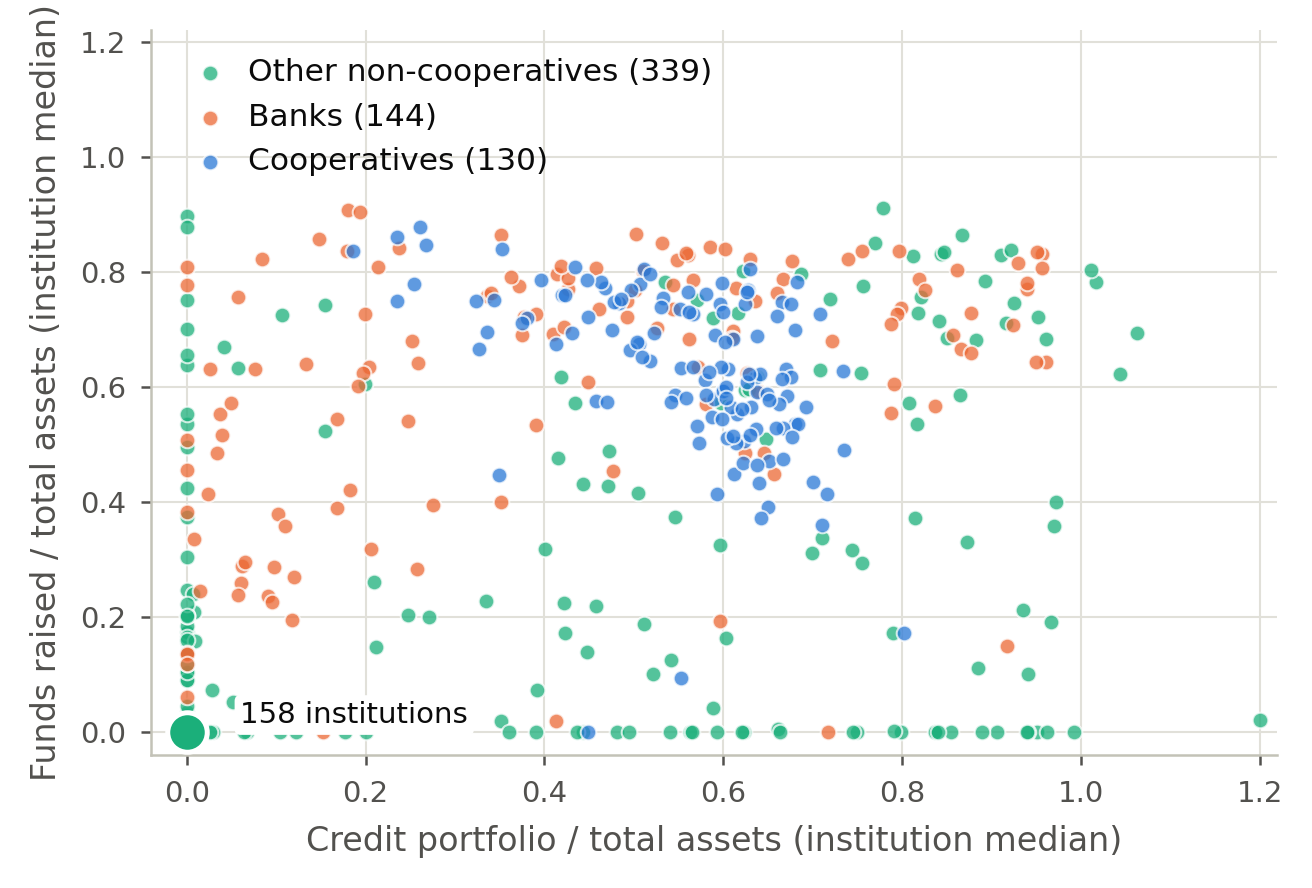
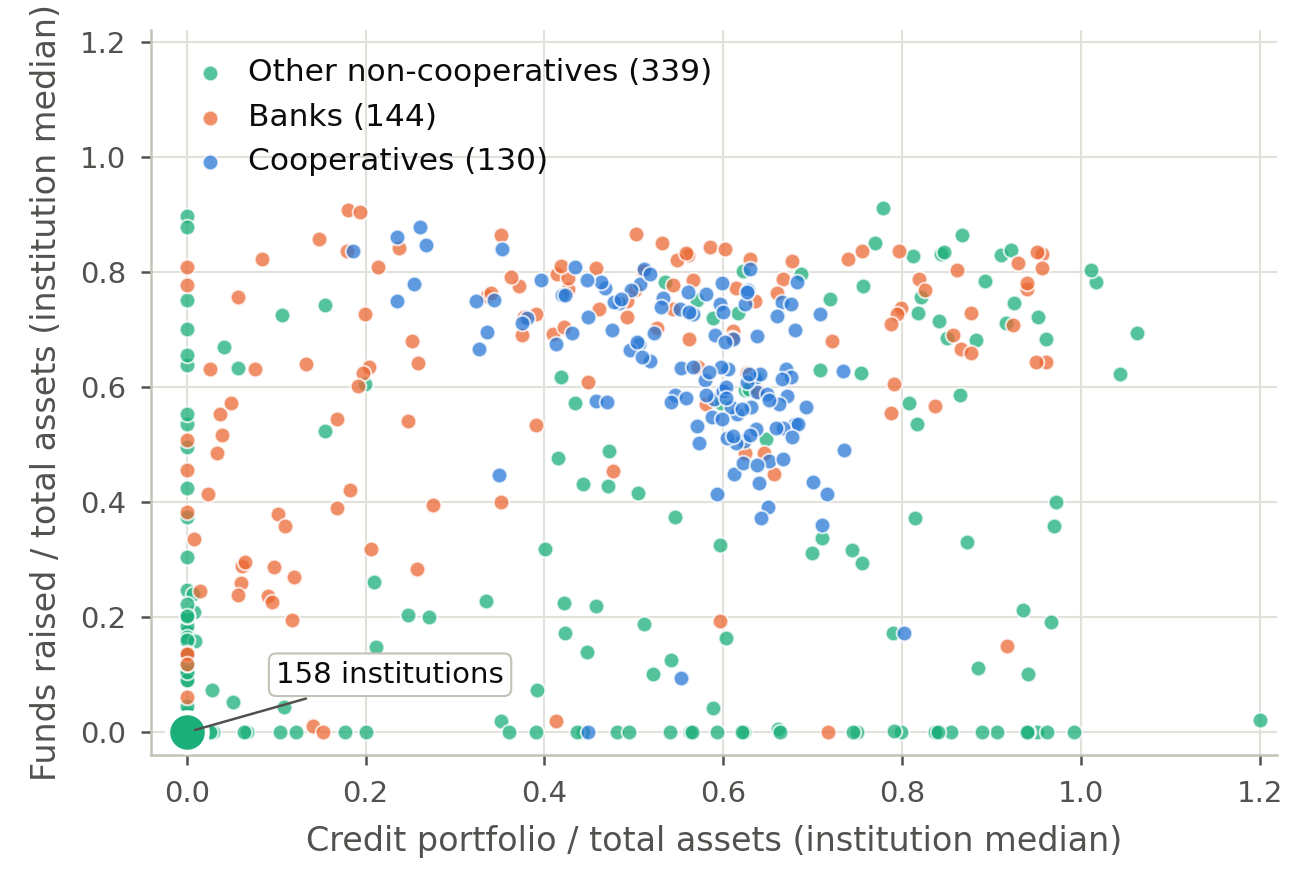
Figure 2: boxed tag with a leader line, top right of the origin marker; Figure 4(b): Banks further left, Cooperatives level with it

Changed region(s): [[0.1562, 0.7297, 0.4062, 0.8514]]

diff --git a/make_figures.py b/make_figures.py
@@ -269,8 +269,10 @@ def fig_broad_group(panel):
                    alpha=0.75, lw=0.5, edgecolor="white",
                    label=f"{lab} ({int((med.grp == grp).sum())})")
     ax.scatter([0], [0], s=90, facecolor=OTHER, edgecolor="white", lw=1.2, zorder=3)
-    ax.text(0.06, 0.03, f"{n_zero} institutions", fontsize=7, color=INK, va="center",
-            ha="left", bbox=dict(boxstyle="round,pad=0.2", fc="white", ec="none"), zorder=5)
+    ax.annotate(f"{n_zero} institutions", (0, 0), xytext=(0.10, 0.10), textcoords="data",
+                fontsize=7, color=INK, va="center", ha="left",
+                bbox=dict(boxstyle="round,pad=0.25", fc="white", ec=AXIS, lw=0.5),
+                arrowprops=dict(arrowstyle="-", color=INK2, lw=0.6), zorder=5)
     ax.set_xlim(-0.04, cap + 0.02)
     ax.set_ylim(-0.04, cap + 0.02)
     ax.set_xlabel("Credit portfolio / total assets (institution median)")
@@ -353,8 +355,8 @@ def fig_capital(l2, txt):
     b.set_xlabel("Basel capital ratio (%), log scale")
     b.set_ylabel("Percent of quarters")
     b.set_title("(b) The two distributions")
-    b.text(33, top * 0.88, "Cooperatives", fontsize=7, color=COOP, fontweight="bold")
-    b.text(5.6, top * 0.66, "Banks", fontsize=7, color=BANK, fontweight="bold", ha="left")
+    b.text(33, top * 0.66, "Cooperatives", fontsize=7, color=COOP, fontweight="bold")
+    b.text(4.4, top * 0.66, "Banks", fontsize=7, color=BANK, fontweight="bold", ha="left")
     ygrid(b)
     fig.tight_layout(w_pad=1.5)
     save(fig, "fig12_capital_quantiles.png")
